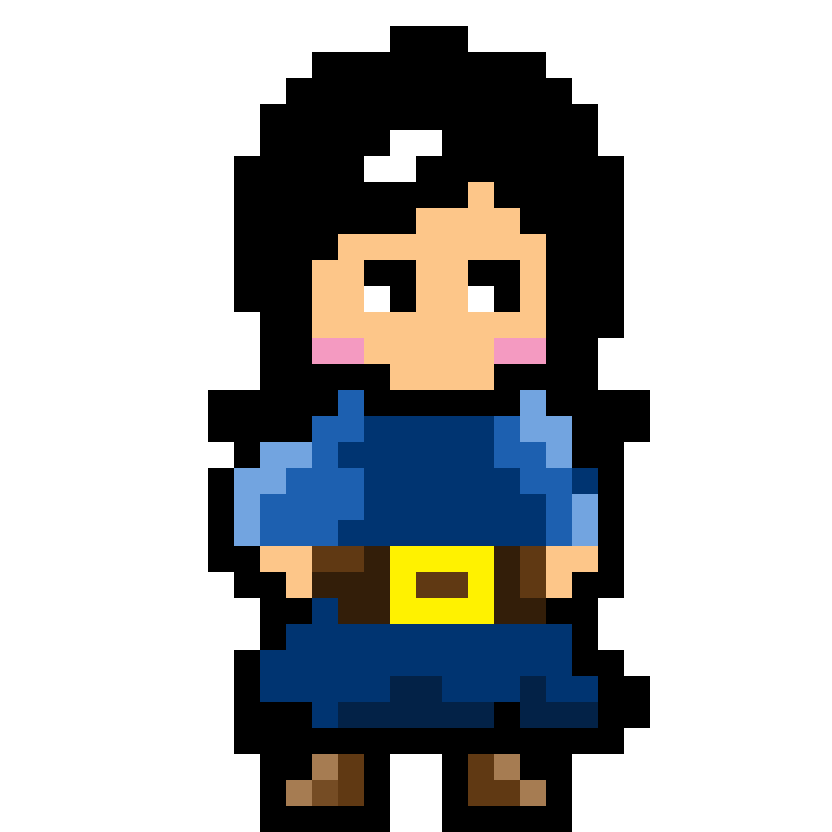
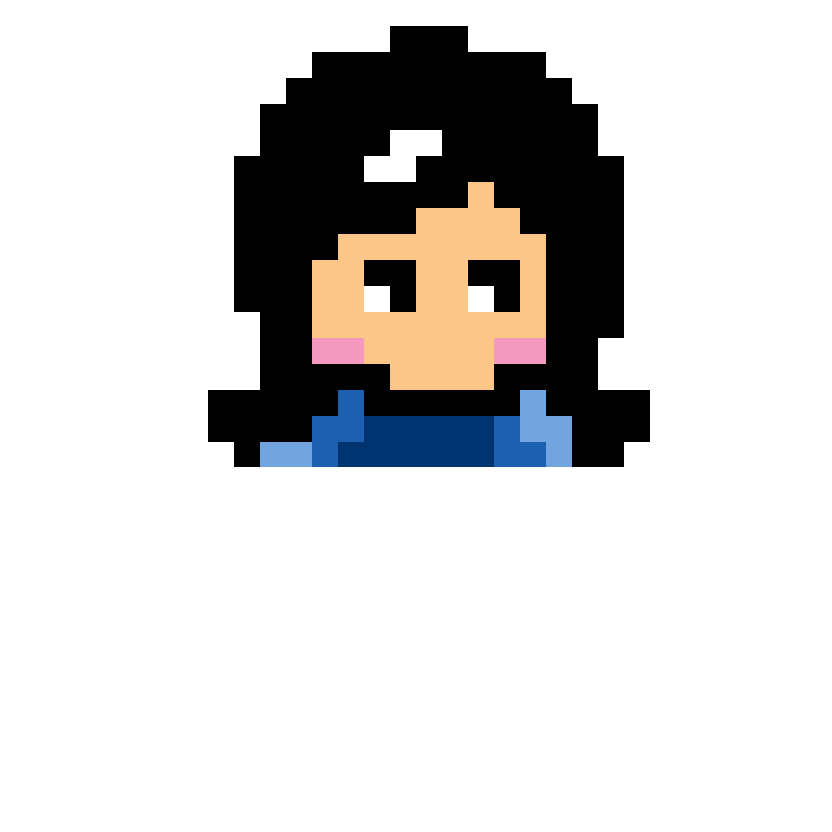
updates

Changed region(s): [[0.25, 0.5625, 0.7812, 1.0]]

diff --git a/index.html b/index.html
@@ -32,8 +32,8 @@
 
 
 <div class="dropdown-menu">
-	<h3> <a href="index.html">home</a> </h3> 
-	<h3> <a href="bio.html">bio</a> </h3> 
+	<h3> <a href="index.html">home</a> </h3>
+	<h3> <a href="bio.html">bio</a> </h3>
 	<h3> <a href="https://www.projectinvent.org">project invent</a></h3>
 	<h3> <a href="work.html">work with me</a></h3>
 	<h3> <a href="CKL_Resume2.pdf">resume</a></h3>
@@ -80,12 +80,16 @@
 
 	<div class="timeline_wrapper">
 		<div class="timeline_block">
-			<img src="images/2009play.png" style="width:80%">
+			<img src="images/2009play.png" style="width:80%" id="timeline_engineer">
 		</div>
 
 		<div class="timeline_block">
 			<h2> engineer </h2>
 			<p> From a young age, I loved building things. I started with building mousetrap vehicles. Soon, I was building electric go-karts and specializing in building assistive technologies like <a href="https://techcrunch.com/2014/04/17/mits-fingerreader-helps-the-blind-read-with-a-swipe-of-a-digit/">FingerReader</a> and <a href="http://www.penpallabs.com/">Penpal</a>. </p>
+		</div>
+
+		<div class="pixel_char" id="pixel_char">
+			<img src="images/pixel-me.png" id="pixel_char_img" />
 		</div>
 	</div>
 
@@ -140,6 +144,10 @@
 		resize(".banner_pic");
 		$('.menu-icon').append('<img src="images/menu-icon.png" width="100%;" height="100%">');
 		$('.potato').append('<img src="images/favicon.png" align="middle" style="width:75%; min-width: 50px;">');
+		var engineer_position = $('#timeline_engineer').offset();
+		engineer_position.left = engineer_position.left - $('#pixel_char').width() / 1.8;
+		engineer_position.top = engineer_position.top + $('#timeline_engineer').height() / 3;
+		$('#pixel_char').css(engineer_position);
 	});
 
 
@@ -148,11 +156,19 @@
     	toppage();
     	resize(".timeline_block", "250px");
     	resize(".banner_pic", "400px");
+    	var engineer_position = $('#timeline_engineer').offset();
+    	engineer_position.left = engineer_position.left - $('#pixel_char').width() / 1.8;
+    	engineer_position.top = engineer_position.top + $('#timeline_engineer').height() / 3;
+		$('#pixel_char').css(engineer_position);
 	});
 
 
 	$('.menu-icon').click(function()  {
 		$('.dropdown-menu').fadeToggle();
+	});
+
+	$("#pixel_char").click(function(){
+		window.open('http://www.superconnie64.com');
 	});
 
 </script>

diff --git a/css/main.css b/css/main.css
@@ -243,6 +243,15 @@ header {
 	display: hidden;
 }
 
-.potato {
+.pixel_char {
+	position: absolute;
+}
 
+.pixel_char:hover {
+	cursor: pointer
+}
+
+#pixel_char_img {
+	width: 50px;
+	transform: rotate(270deg);
 }
